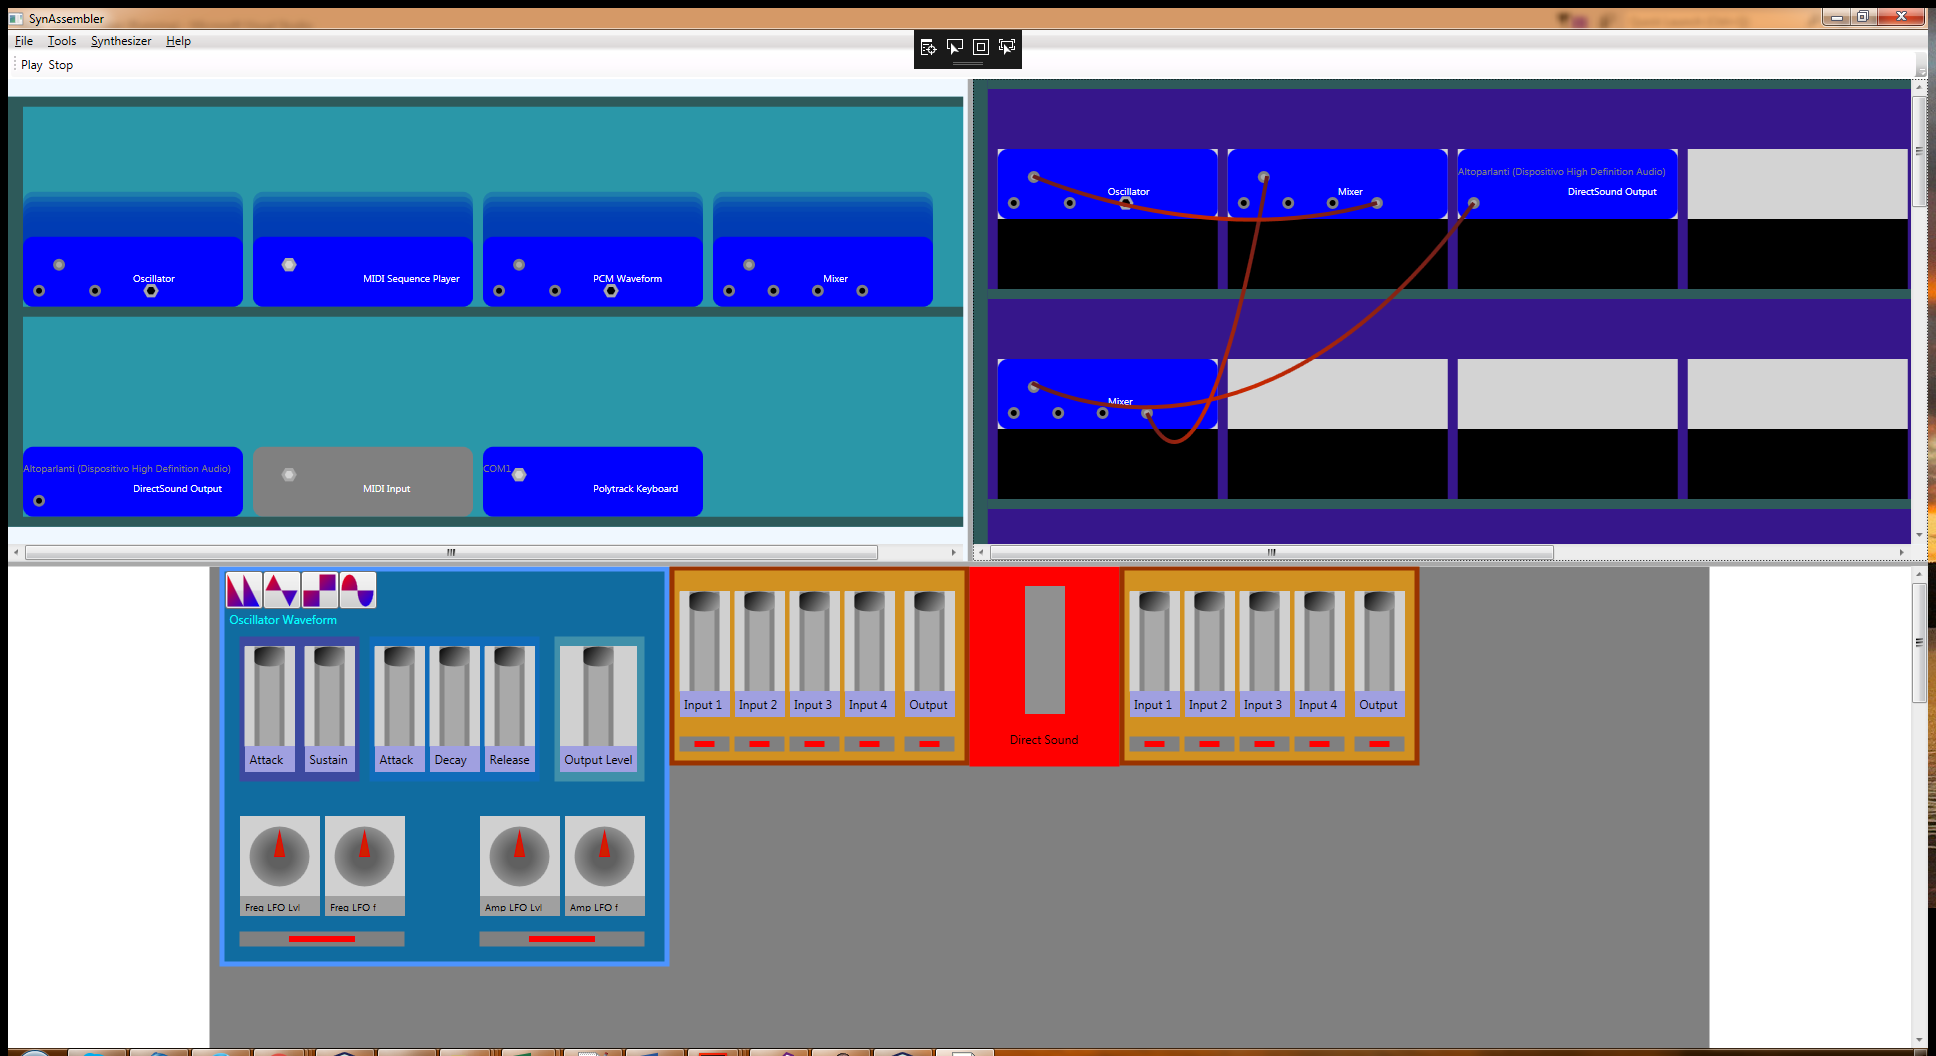
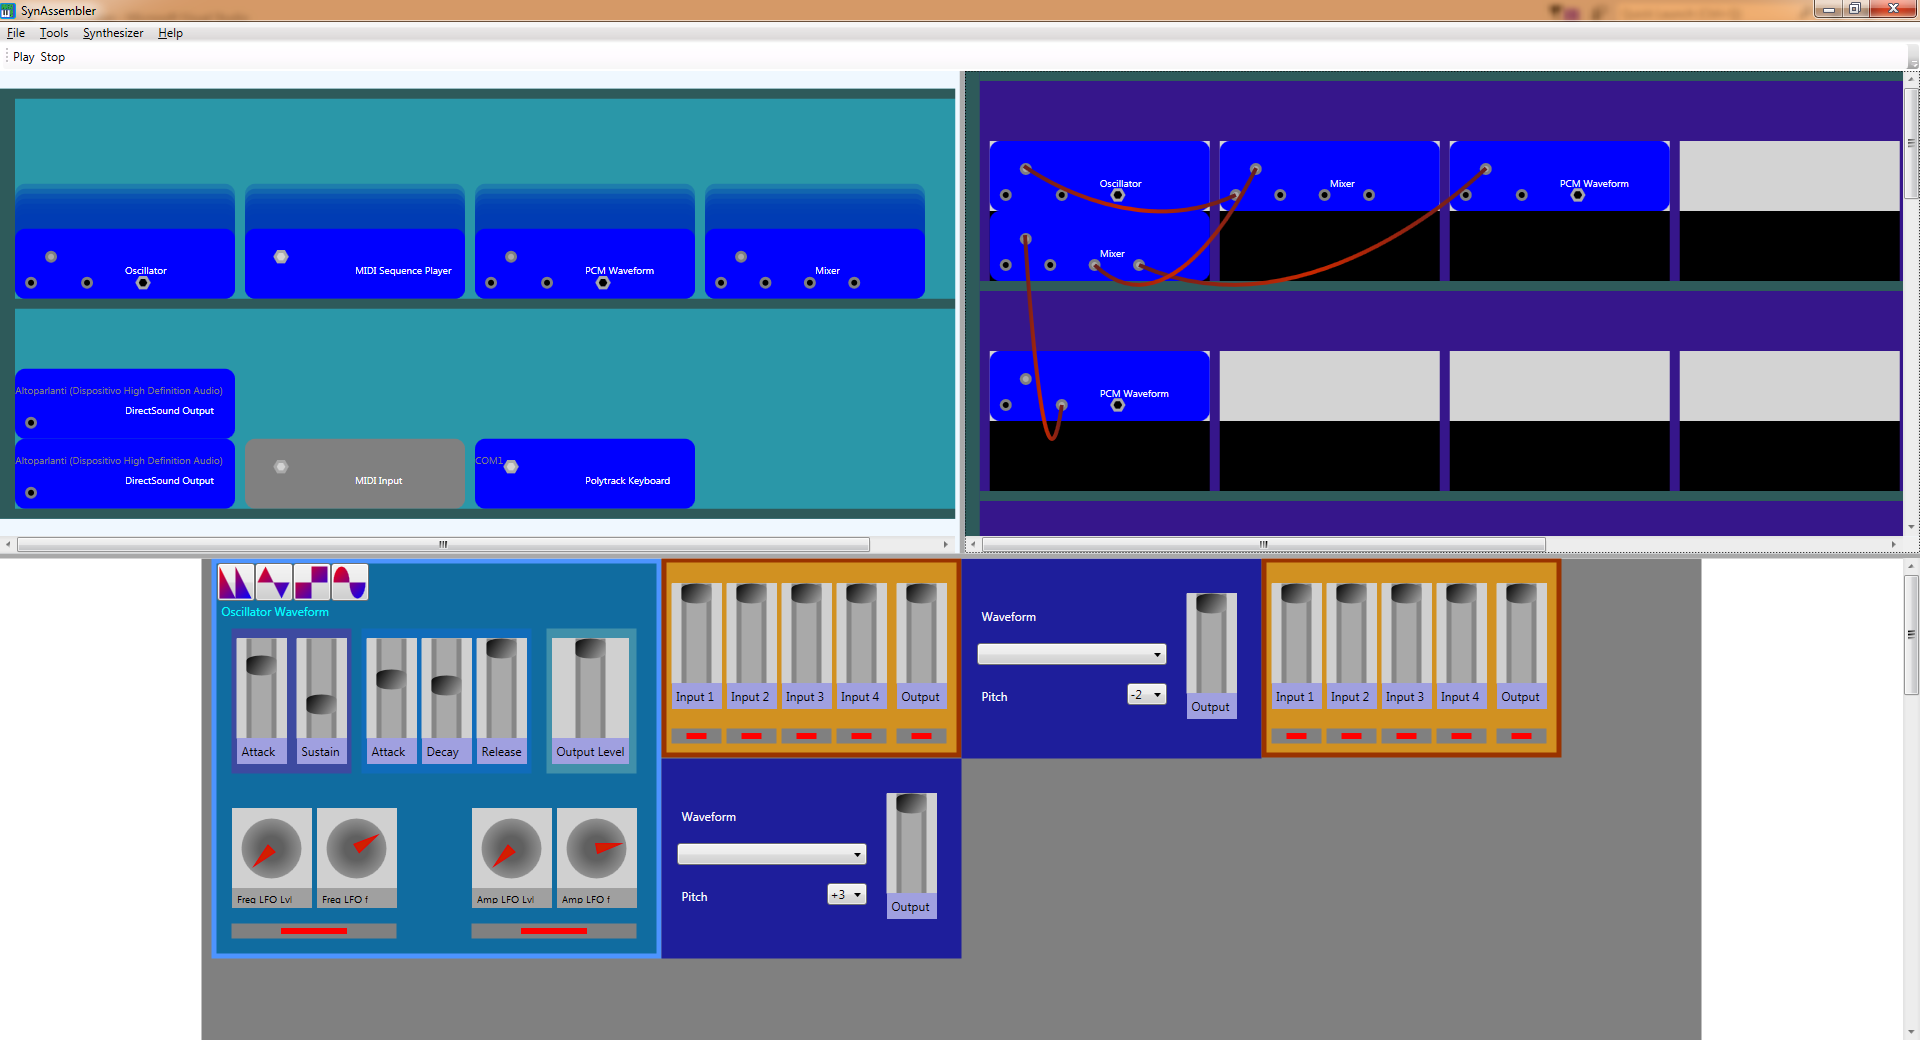
Adjusted PCMWaveform panel and updated simple image

diff --git a/SynAssember/BasicEUSynthFactory/PCMWaveformPanel.xaml b/SynAssember/BasicEUSynthFactory/PCMWaveformPanel.xaml
@@ -8,11 +8,11 @@
              d:DesignWidth="300" d:DesignHeight="200">
     <Canvas>
         <Rectangle Name="BaseRect" Fill="#FF1E1E9B" Width="300" Height="200"/>
-        <Label Canvas.Left="15" Canvas.Top="15" Foreground="White">Waveform</Label>
-        <ComboBox Name="WaveSelection" Canvas.Left="85" Canvas.Top="15" Width="40"></ComboBox>
-        <auc:BasicSlider Name="OutLevel" Label="Output" Canvas.Left="215" Canvas.Top="15"></auc:BasicSlider>
-        <Label Canvas.Left="15" Canvas.Top="50" Foreground="White">Pitch</Label>
-        <ComboBox Name="PitchComboBox" Canvas.Top="50" Canvas.Left="85" Width="60"></ComboBox>
+        <Label Canvas.Left="15" Canvas.Top="45" Foreground="White">Waveform</Label>
+        <ComboBox Name="WaveSelection" Canvas.Left="15" Canvas.Top="85" Width="190"></ComboBox>
+        <Label Canvas.Left="15" Canvas.Top="125" Foreground="White">Pitch</Label>
+        <ComboBox Name="PitchComboBox" Canvas.Top="125" Canvas.Left="165" Width="40"></ComboBox>
+        <auc:BasicSlider Name="OutLevel" Label="Output" Canvas.Left="225" Canvas.Top="35"></auc:BasicSlider>        
         <!--<Rectangle Name="WavePlace" Canvas.Top="10" Canvas.Left="130" Width="140" Height="62" Fill="Black"></Rectangle>-->
     </Canvas>
 </UserControl>

diff --git a/SynAssember/BasicEUSynthFactory/PCMWaveformPanel.xaml.cs b/SynAssember/BasicEUSynthFactory/PCMWaveformPanel.xaml.cs
@@ -21,9 +21,44 @@ namespace BasicEUSynthFactory
     /// </summary>
     public partial class PCMWaveformPanel : UserControl
     {
+		private class PitchItem
+		{
+			public String name;
+			public int value;
+			public PitchItem(String name, int value)
+			{
+				this.name = (value > 0 ? "+" : "") + name;
+				this.value = value;
+			}
+
+			public override string ToString()
+			{
+				return name;
+			}
+		}
+
+		PitchItem Zero;
+
+		const int MAX_PITCH_OFFSET = 5;
+
+		void AddAllPitchItems()
+		{
+			int totalRange = MAX_PITCH_OFFSET*2 + 1;
+			for (int i=0;i<totalRange;i++)
+			{
+				int index = i - MAX_PITCH_OFFSET;
+				PitchItem item = new PitchItem(index.ToString(), index);
+				if (item.value == 0)
+					Zero = item;
+				PitchComboBox.Items.Add(item);
+			}
+		}
+
         public PCMWaveformPanel()
         {
             InitializeComponent();
+			AddAllPitchItems();
+			PitchComboBox.SelectedItem = Zero;
         }
 
 		private void BrowseButton_Click(object sender, RoutedEventArgs e)
